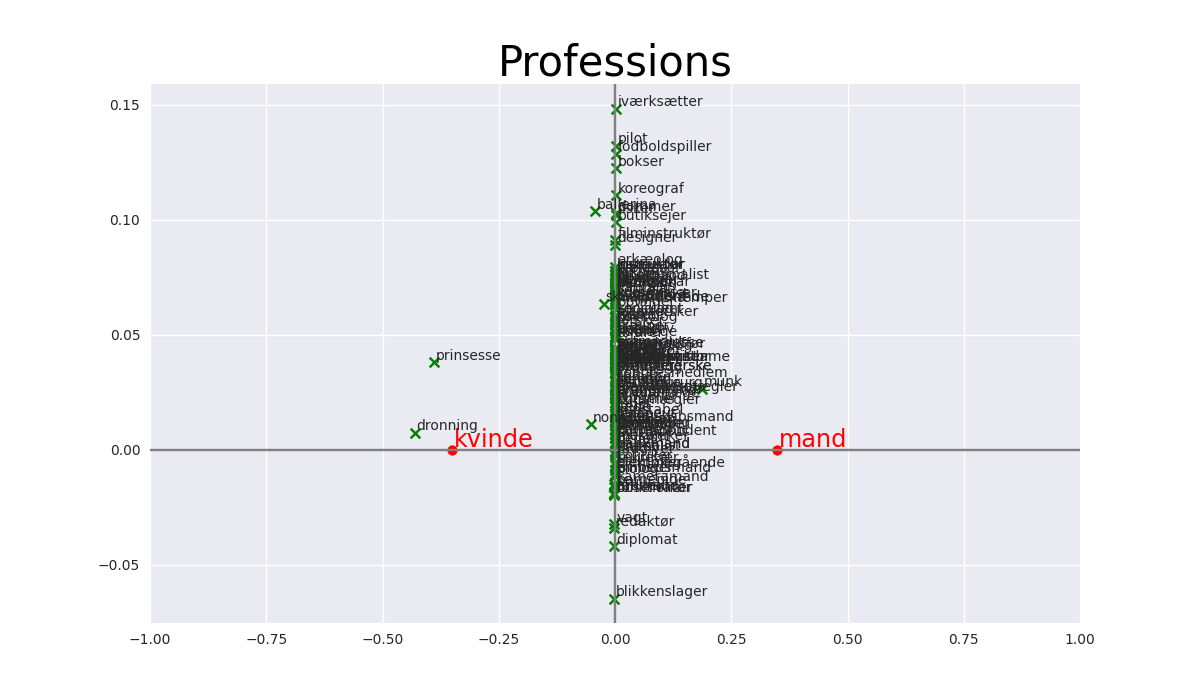
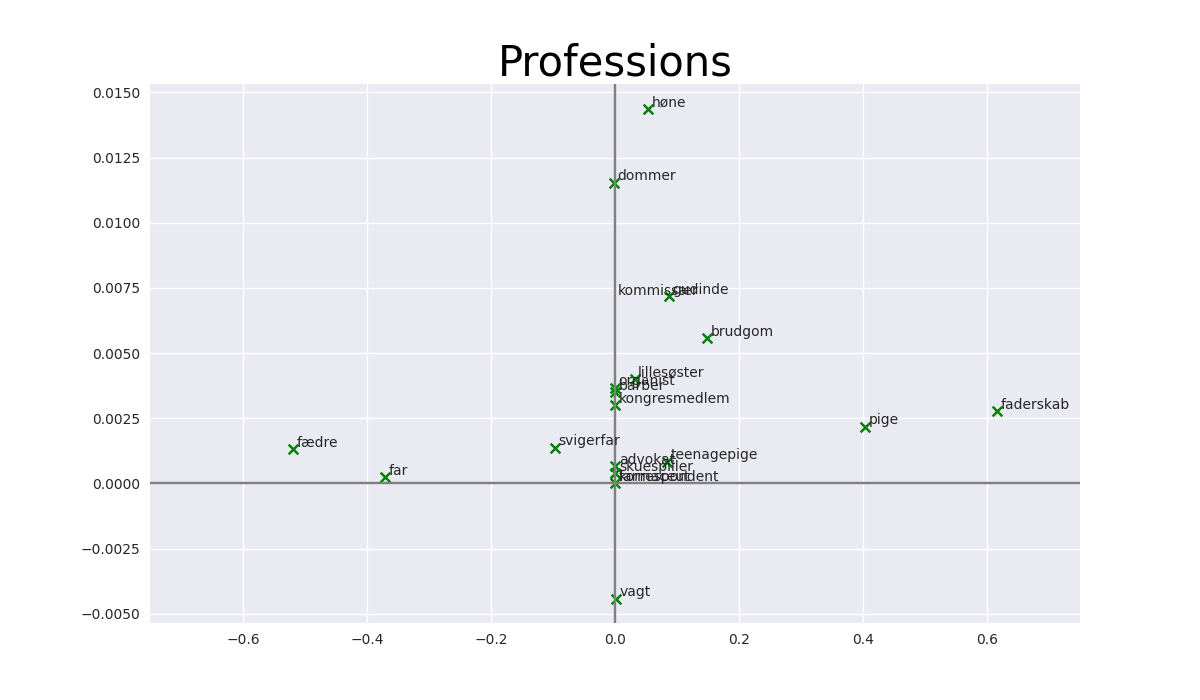
plots

diff --git a/assess_bias/main.py b/assess_bias/main.py
@@ -1,7 +1,8 @@
 from utility_functions import *
-from print_similarities import *
+#from print_similarities import *
 from gensim.models.keyedvectors import KeyedVectors
 import argparse
+import random
 import json
 import sys, os
 sys.path.append(os.path.join('..'))
@@ -28,7 +29,7 @@ if __name__ == "__main__":
     debiased_model = KeyedVectors.load_word2vec_format(os.path.join("..", "embeddings", args.debiased_filename), binary=True)
 
     # define attribute words
-    male = ['mandlig', 'mand','dreng','bror','han','ham','hans','søn'] 
+    male = ['mandlig', 'mand','dreng','bror','han','ham','hans','søn']
     female = ['kvindelig', 'kvinde', 'pige', 'søster', 'hun', 'hende', 'hendes', 'datter'] 
 
     # define target words
@@ -38,7 +39,7 @@ if __name__ == "__main__":
     career = ['leder', 'bestyrelse', 'professionel', 'virksomhed', 'løn', 'arbejde', 'forretning', 'karriere'] 
     family = ['hjem','forældre', 'børn', 'familie','bedsteforældre', 'ægteskab', 'bryllup', 'pårørende'] 
 
-    print("getting WEAT scores")
+    #print("getting WEAT scores")
     # get WEAT scores model
     #weat_func(model, f"biased_{args.model_type}", "career", "family", 10000, male, female, career, family)
     #weat_func(model, f"biased_{args.model_type}", "science", "arts", 10000, male, female, science, arts)
@@ -54,18 +55,27 @@ if __name__ == "__main__":
     with open(professions_path, "r") as f:
         profession_words = json.load(f)
 
+    # load gender specific words
+    genderspecific_path = os.path.join("..", "data", "da_gender_specific_seed.json")
+    with open(genderspecific_path, "r") as f:
+        gender_specific_words = json.load(f)
+
+    # sample words 
+    profession_sample = random.sample(profession_words, 10)
+    print("professions")
+    print(profession_sample)
+    gender_specific_sample = random.sample(gender_specific_words, 10)
+    combined = profession_sample + gender_specific_sample
+    print("gender specific")
+    print(gender_specific_sample)
+
     # get similarity scores: professions projected onto gender direction
     #most1, least1 = print_similarities(args.embedding_filename, profession_words)
     #most2, least2 = print_similarities(args.debiased_filename, profession_words)
 
-    #print(most1, least1)
-    #print(most2, least2)
-
-    # save as csv??
-
-    # plot professions
-    plot_words(model, f"biased_{args.model_type}", profession_words)
-    plot_words(debiased_model, f"debiased_{args.model_type}", profession_words)
+    # plot words
+    plot_words(model, f"biased_{args.model_type}", combined)
+    plot_words(debiased_model, f"debiased_{args.model_type}", combined)
 
     '''
     #hjemmelavet

diff --git a/assess_bias/viz2.py b/assess_bias/viz2.py
@@ -12,37 +12,29 @@ if sys.version_info[0] < 3:
 plt.style.use("seaborn")
 
 
-#model = KeyedVectors.load_word2vec_format('/work/Exam/cool_programmer_tshirts2.0/embeddings/DAGW-model(1).bin', binary=True) 
-#debiased_model = KeyedVectors.load_word2vec_format('/work/dagw_wordembeddings/word2vec_model/debiased_model.bin', binary=True)
-#debiased_model_noeq = KeyedVectors.load_word2vec_format('/work/dagw_wordembeddings/word2vec_model/no_eq_debiased_model.bin', binary=True)
-#wordlist = ['revisor', 'sygeplejerske','prinsesse', 'dronning','skuespiller', 'skuespillerinde', 'advokat', 'hjælper',  'antropolog', 'arkæolog', 'arkitekt', 'kunstner',  'morder', 'astronaut', 'astronom', 'atlet',  'forfatter', 'bager', 'ballerina', 'fodboldspiller', 'bankmand', 'barber', 'baron', 'bartender', 'biolog', 'biskop', 'præst']
-#wordlist2 = [w for w in wordlist if w in model.vocab]
-
-
 def plot_words(embedding, model_name, wordlist_full):
 
-    # define word pair for x-axis
-    x_ax = ['kvinde', 'mand']
+    # load x-axis
+    x = np.loadtxt(os.path.join("..", "output","gender_direction.csv"), delimiter=',')
 
     # load vector for y-axis
     y_ax = np.loadtxt(os.path.join("..", "output", "neutral_specific_difference.csv"), delimiter=',')
 
     # choose only words that are in the embeddings
-    wordlist_sub = [w for w in wordlist_full if w in embedding.vocab]
-    wordlist = x_ax + wordlist_sub
+    wordlist = [w for w in wordlist_full if w in embedding.vocab]
 
     # retrieve vectors
     vectors = [embedding[k] for k in wordlist]
 
     # To-be basis
-    x = (vectors[1]-vectors[0])
+    #x = (vectors[1]-vectors[0])
     
     # flipped
     y = np.flipud(y_ax)
 
     # normalize
-    x /= np.linalg.norm(x)
-    y /= np.linalg.norm(y)
+    #x /= np.linalg.norm(x)
+    #y /= np.linalg.norm(y)
    
     # Get pseudo-inverse matrix
     W = np.array(vectors)
@@ -63,14 +55,14 @@ def plot_words(embedding, model_name, wordlist_full):
     plt.title(label="Professions",
             fontsize=30,
             color="black")
-    plt.xlim([-1, 1])
+    plt.xlim([-0.75, 0.75])
     #plt.ylim([-0.25, 0.25])
-    print(Wp[0,0], Wp[1,0])
+
     
     #plot the wordlist
     plt.scatter(Wp[0,2:], Wp[1,2:], color = 'green', marker= "x")
     #plot kvinde and mand
-    plt.scatter(Wp[0,:2], Wp[1,:2], color = 'red', marker= "o", label = "axis of interest")
+    #plt.scatter(Wp[0,:2], Wp[1,:2], color = 'red', marker= "o", label = "axis of interest")
 
     rX = max(Wp[0,:])-min(Wp[0,:])
     rX = max(Wp[0,:])-min(Wp[0,:])

diff --git a/assess_bias/utility_functions.py b/assess_bias/utility_functions.py
@@ -7,6 +7,7 @@ from numpy import dot
 from numpy.linalg import norm
 import random
 import sys, os
+
 sys.path.append(os.path.join('..'))
 
 def cosine_sim(v1, v2, embedding):
@@ -163,3 +164,20 @@ def weat_func(wordembedding, model_name, theme1, theme2, permutations, male, fem
     results.to_csv(os.path.join("..", "output", name), index = True)
 
     return print(results)
+
+
+# choose only words that are in the embeddings
+def choose_biased(embedding, words_full):
+    # take only words that are in embedding
+    wordlist = [w for w in words_full if w in embedding.vocab]
+    
+    # load gender direction (from debias function)
+    gender_direction = np.loadtxt(os.path.join("..", "output","gender_direction.csv"), delimiter=',')
+
+    # project words onto gender dimesion
+    sp = sorted([(embedding.get_vector(w).dot(gender_direction), w) for w in wordlist])
+    male, female = sp[:20], sp[-20:]
+    
+
+    # print extreme words
+    return sp[:20], sp[-20:]
